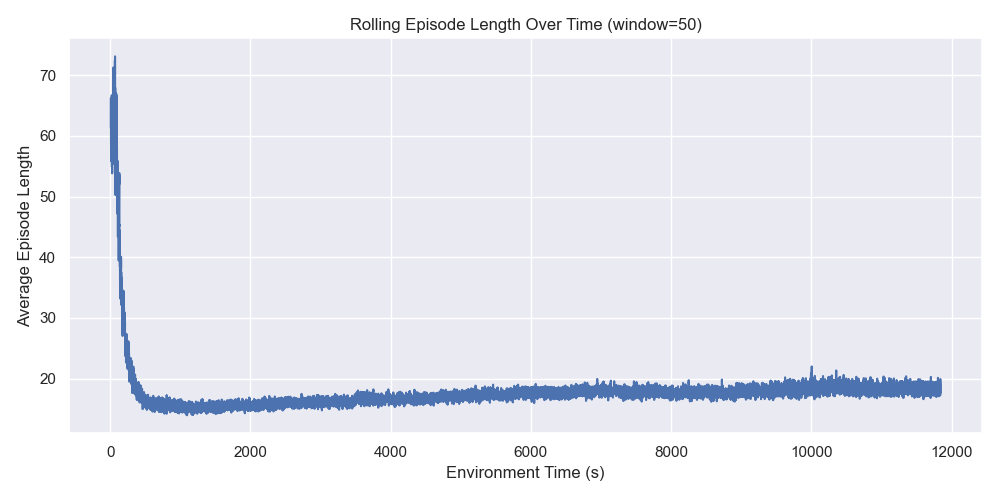
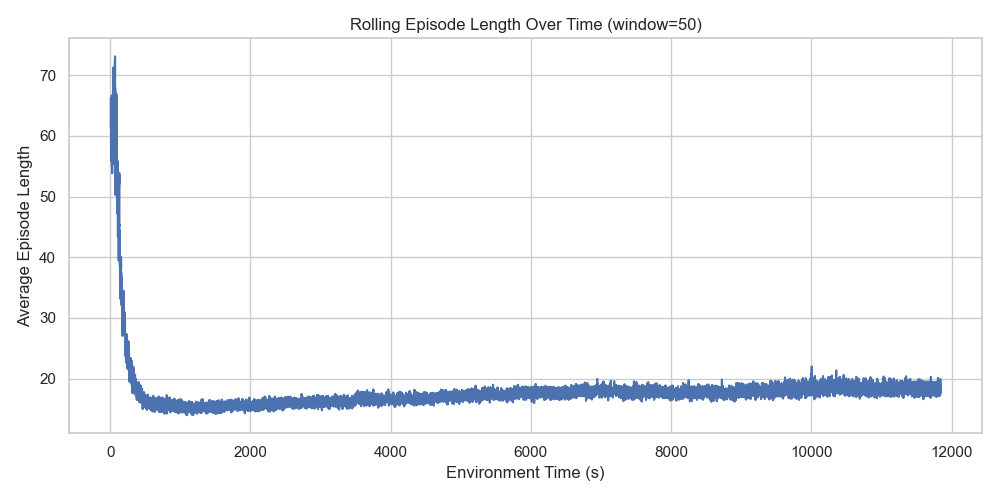
Modified the design of plots

diff --git a/src/plotting.py b/src/plotting.py
@@ -45,7 +45,7 @@ def generate_plots(log_root):
     df["rolling_reward"] = df["r"].rolling(window=50).mean()
 
     # Set seaborn style
-    sns.set_theme(style="darkgrid")
+    sns.set_theme(style="whitegrid")
 
     # Rolling Reward over Environment Time
     plt.figure(figsize=(10, 5))
